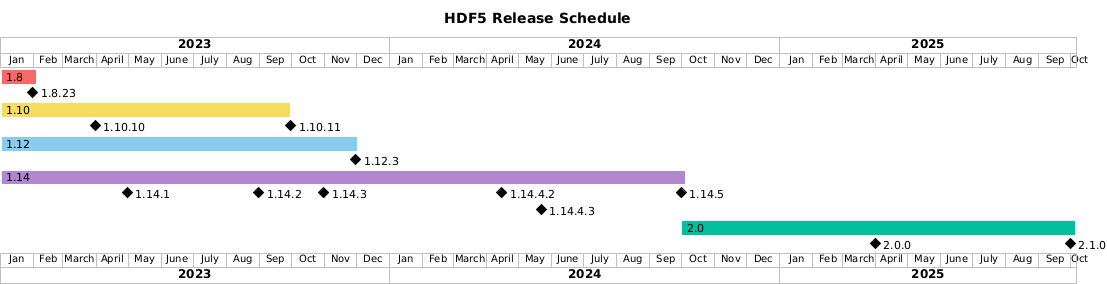
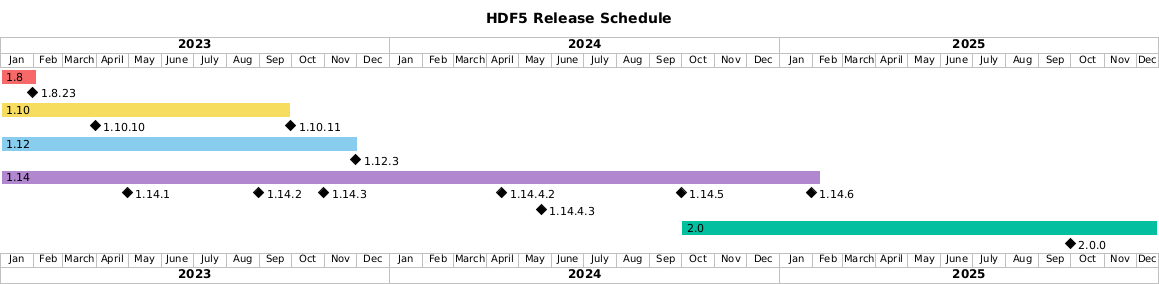
update the release schedule (#5275)

diff --git a/README.md b/README.md
@@ -82,21 +82,23 @@ RELEASE SCHEDULE
 
 ![HDF5 release schedule](doc/img/release-schedule.png) 
 
-HDF5 does not release on a regular schedule. Instead, releases are driven by
-new features and bug fixes, though we try to have at least one release of each
-maintenance branch per year. Future HDF5 releases indicated on this schedule
-are tentative.
+HDF5 does not follow a regular release schedule. Instead, updates are based on the
+introduction of new features and the resolution of bugs. However, we aim to have at
+least one annual release for each maintenance branch. Please note that the future
+HDF5 releases listed on this schedule are tentative.
+
+> [!IMPORTANT]
+> In subsequent releases after 1.14, HDF5 will adopt [semantic versioning](https://semver.org/).
+> Therefore, the upcoming major release will be designated as 2.0.0.
 
 | Release | New Features |
 | ------- | ------------ |
-| 2.0.0 | Drop Autotools support, drop the HDF5 <--> GIF tools, add complex number support, update library defaults (cache sizes, etc.), use semantic versioning |
+| 2.0.0 | Drop Autotools support, drop the HDF5 <--> GIF tools, add complex number support, update library defaults (cache sizes, etc.) |
 | FUTURE | Multi-threaded HDF5, crashproofing / metadata journaling, Full (VFD) SWMR, encryption, digital signatures, sparse datasets, improved storage for variable-length datatypes, better Unicode support (especially on Windows) |
-
-NOTE: In the March 2025 release we will begin using semantic versioning (https://semver.org/) and the previously announced 1.16.0 version will instead be numbered 2.0.0.
 
 [A list of planned HDF5 2.0 features and bugfixes can be found here.](https://github.com/HDFGroup/hdf5/wiki/HDF5-2.0-Planning)
 
-This list of feature release versions is also tentative, and the specific release
+This list of feature release versions is tentative, and the release
 in which a feature is introduced may change.
 
 
